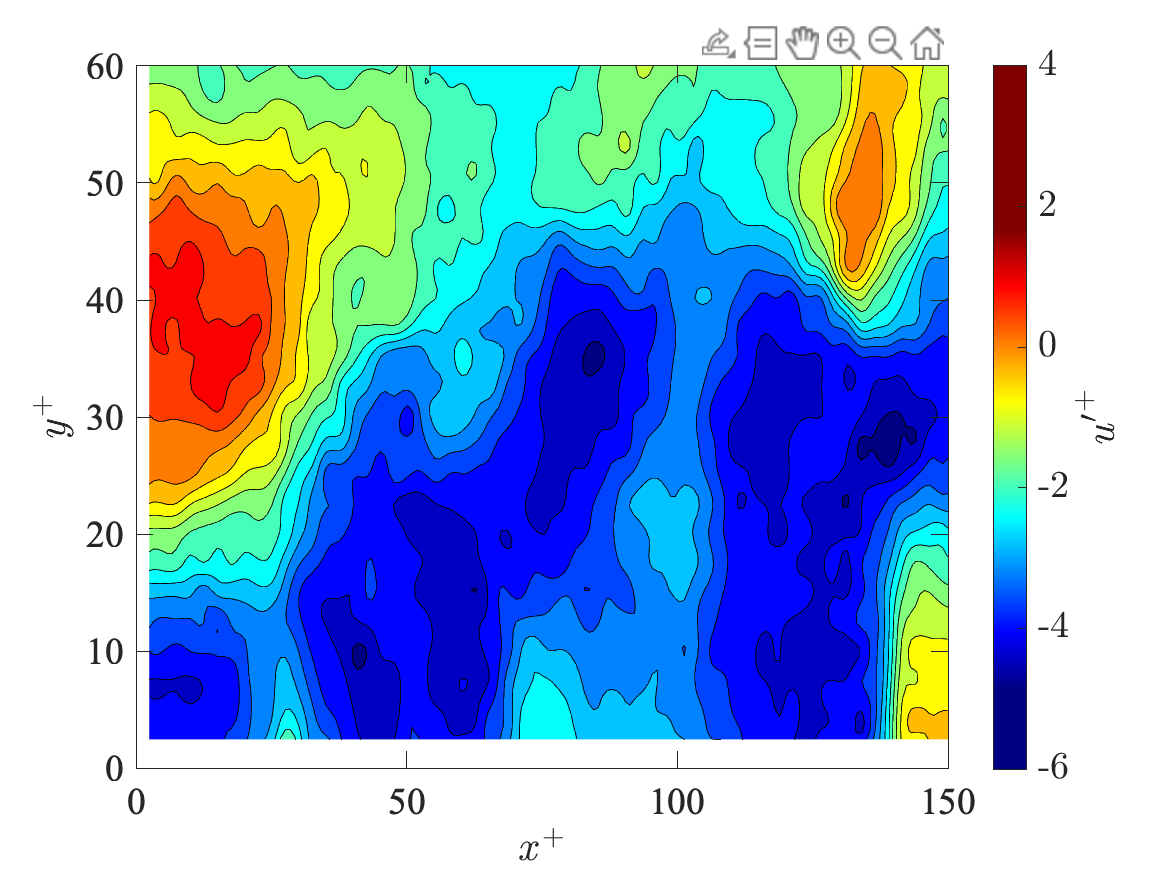
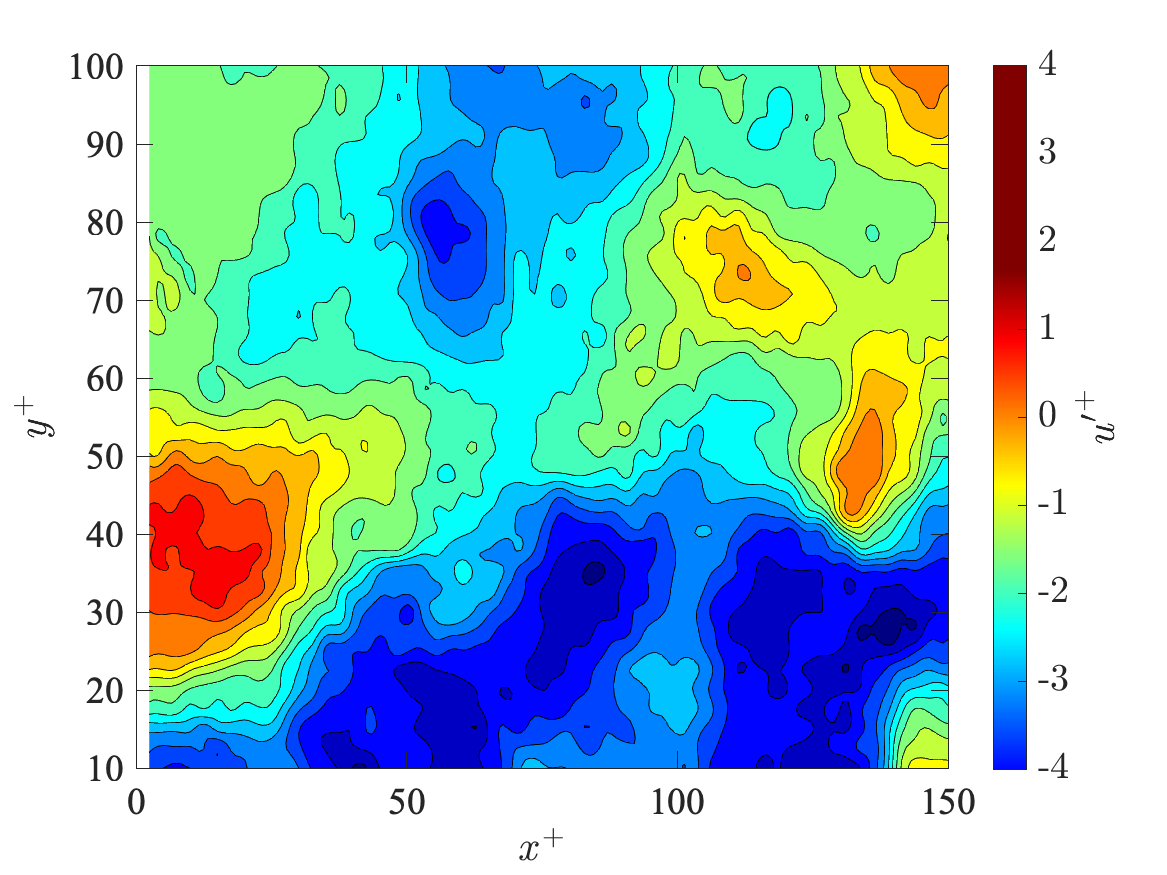
pathとグラフの変更

diff --git a/itoi/PIV_assignment/solution_algo.m b/itoi/PIV_assignment/solution_algo.m
@@ -45,20 +45,20 @@ x          = x/1000;                                               % xy data [mm
 % reading part_velocity_data_average
 for k =0:numfiles-1
 	if k<10                                                        % changing file name to read data
-    %  file_name = sprintf('velocity_32px.6vayg6cd.00000%d.dat',k);
-	 file_name = sprintf('previous_water_Flow_images.6wb7297o.00000%d.dat',k);
+     file_name = sprintf('velocity_32px.6vayg6cd.00000%d.dat',k);
+	%  file_name = sprintf('previous_water_Flow_images.6wb7297o.00000%d.dat',k);
 	elseif k<100
-	%  file_name = sprintf('velocity_32px.6vayg6cd.0000%d.dat',k);
-	 file_name = sprintf('previous_water_Flow_images.6wb7297o.0000%d.dat',k);
+	 file_name = sprintf('velocity_32px.6vayg6cd.0000%d.dat',k);
+	%  file_name = sprintf('previous_water_Flow_images.6wb7297o.0000%d.dat',k);
 	elseif k<1000
-	%  file_name = sprintf('velocity_32px.6vayg6cd.000%d.dat',k);
-	 file_name = sprintf('previous_water_Flow_images.6wb7297o.000%d.dat',k);
+	 file_name = sprintf('velocity_32px.6vayg6cd.000%d.dat',k);
+	%  file_name = sprintf('previous_water_Flow_images.6wb7297o.000%d.dat',k);
 	elseif k<10000 
-	%  file_name = sprintf('velocity_32px.6vayg6cd.00%d.dat',k);
-	 file_name = sprintf('previous_water_Flow_images.6wb7297o.00%d.dat',k);
+	 file_name = sprintf('velocity_32px.6vayg6cd.00%d.dat',k);
+	%  file_name = sprintf('previous_water_Flow_images.6wb7297o.00%d.dat',k);
     end
-    % myfilename = sprintf('/Volumes/HDCZ-UT/itoi_PIV/water/water_test.6uvaasgh/80ppm_experiment.6vaxq7zy/velocity/%s',file_name);
-    myfilename = sprintf('/Volumes/HDCZ-UT/itoi_PIV/water/water_test.6uvaasgh/80ppm_experiment.6vaxq7zy/0217fixed_velocity/%s',file_name);
+    myfilename = sprintf('/Volumes/HDCZ-UT/itoi_PIV/water/water_test.6uvaasgh/80ppm_experiment.6vaxq7zy/velocity/%s',file_name);
+    % myfilename = sprintf('/Volumes/HDCZ-UT/itoi_PIV/water/water_test.6uvaasgh/80ppm_experiment.6vaxq7zy/0217fixed_velocity/%s',file_name);
     mydata     = importdata(myfilename);
     u(:,:,1)   = rot90(reshape(mydata.data(:,1),[m n]));            % u
     u(:,:,2)   = -rot90(reshape(mydata.data(:,2),[m n]));           % v
@@ -130,20 +130,20 @@ saveas(gcf,'Um-y','png');
 % reading part_velocity_data_fluctuation
 for k =0:numfiles-1
 	if k<10                                                         % changing file name to read data
-	%  file_name = sprintf('velocity_32px.6vayg6cd.00000%d.dat',k);
-	 file_name = sprintf('previous_water_Flow_images.6wb7297o.00000%d.dat',k);
+	 file_name = sprintf('velocity_32px.6vayg6cd.00000%d.dat',k);
+	%  file_name = sprintf('previous_water_Flow_images.6wb7297o.00000%d.dat',k);
 	elseif k<100
-	%  file_name = sprintf('velocity_32px.6vayg6cd.0000%d.dat',k);
-	 file_name = sprintf('previous_water_Flow_images.6wb7297o.0000%d.dat',k);
+	 file_name = sprintf('velocity_32px.6vayg6cd.0000%d.dat',k);
+	%  file_name = sprintf('previous_water_Flow_images.6wb7297o.0000%d.dat',k);
 	elseif k<1000
-	%  file_name = sprintf('velocity_32px.6vayg6cd.000%d.dat',k);
-	 file_name = sprintf('previous_water_Flow_images.6wb7297o.000%d.dat',k);
+	 file_name = sprintf('velocity_32px.6vayg6cd.000%d.dat',k);
+	%  file_name = sprintf('previous_water_Flow_images.6wb7297o.000%d.dat',k);
 	elseif k<10000 
-	%  file_name = sprintf('velocity_32px.6vayg6cd.00%d.dat',k);
-	 file_name = sprintf('previous_water_Flow_images.6wb7297o.00%d.dat',k);
+	 file_name = sprintf('velocity_32px.6vayg6cd.00%d.dat',k);
+	%  file_name = sprintf('previous_water_Flow_images.6wb7297o.00%d.dat',k);
     end
-    % myfilename = sprintf('/Volumes/HDCZ-UT/itoi_PIV/water/water_test.6uvaasgh/80ppm_experiment.6vaxq7zy/velocity/%s',file_name);
-    myfilename = sprintf('/Volumes/HDCZ-UT/itoi_PIV/water/water_test.6uvaasgh/80ppm_experiment.6vaxq7zy/0217fixed_velocity/%s',file_name);
+    myfilename = sprintf('/Volumes/HDCZ-UT/itoi_PIV/water/water_test.6uvaasgh/80ppm_experiment.6vaxq7zy/velocity/%s',file_name);
+    % myfilename = sprintf('/Volumes/HDCZ-UT/itoi_PIV/water/water_test.6uvaasgh/80ppm_experiment.6vaxq7zy/0217fixed_velocity/%s',file_name);
     mydata     = importdata(myfilename);
     u(:,:,1)   = rot90(reshape(mydata.data(:,1),[m n]));            % u
     u(:,:,2)   = -rot90(reshape(mydata.data(:,2),[m n]));           % v
@@ -170,15 +170,15 @@ for k =0:numfiles-1
 
 % uの変動を分布図に
 
-    % if k < 15
-    if k == 6 || k == 8|| k == 14
+    % if k == 6 || k == 8|| k == 14
+    if k == 6
         [cc_solution_dash,hc_solution_dash]=contourf(xq*ut/vis,yq*ut/vis,U_dash/ut,8);                   % making isoline
         hc_solution_dash.TextStep = 0.4;                                                  % interval isoline
         hc_solution_dash.ShowText = 'off';                                                % isoline text off
         colormap('jet');                                                    % color type of 'jet'
         box on;                                                             % making flame of figure
         xlim([0 150]);                                                       % range of x
-        ylim([0 60]);                                                     % range of y
+        ylim([10 100]);                                                     % range of y
         set( gca, 'FontName','Times','FontSize',18);                        % font and its size of axes 
         ax = gca;
         ax.TickLength = [0.02 0.1];                                         % scale size to inside from flame
@@ -186,14 +186,14 @@ for k =0:numfiles-1
         ylabel('${\it y^+}$','FontSize',20,'Interpreter','latex');           % ylabel, its size, and type
 
         c = load('session_C','c').c;                                                       % making color bar
-        % % c.Limits = [-0.4 0.4];                                                 % range of colorbar
-        % c.Limits = [-6 4];                                                 % range of colorbar
-        % c.FontSize = 18;                                                    % font size of scale of color bar
-        % c.TickLabelInterpreter = 'latex';                                   % font type of scale of color bar
-        % c.Label.Interpreter = 'latex';                                      % font type of label of color bar
+        % c.Limits = [-0.4 0.4];                                                 % range of colorbar
+        c.Limits = [-4 4];                                                 % range of colorbar
+        c.FontSize = 18;                                                    % font size of scale of color bar
+        c.TickLabelInterpreter = 'latex';                                   % font type of scale of color bar
+        c.Label.Interpreter = 'latex';                                      % font type of label of color bar
         % % c.Label.String = '$${\it u^\prime}/{\it U_b}$$';                % label of color bar
-        % c.Label.String = '$${\it u^\prime}^+$$';                             % label of color bar
-        % c.Label.FontSize = 20;                                              % font size of label of color bar
+        c.Label.String = '$${\it u^\prime}^+$$';                             % label of color bar
+        c.Label.FontSize = 20;                                              % font size of label of color bar
         fig_name = sprintf('U_dash_solution%d',k);
         saveas(gcf,fig_name ,'png'); 
         

diff --git a/itoi/PIV_assignment/water_algo.m b/itoi/PIV_assignment/water_algo.m
@@ -131,21 +131,21 @@ saveas(gcf,'Um-y','png');
 % reading part_velocity_data_fluctuation
 for k =0:numfiles-1
 	if k<10                                                         % changing file name to read data
-	%  file_name = sprintf('velocity_32px.6vas9dlb.00000%d.dat',k);
+	 file_name = sprintf('velocity_32px.6vas9dlb.00000%d.dat',k);
 	%  file_name = sprintf('0217fixed_velocity.6wbrf3a3.00000%d.dat',k);
-	 file_name = sprintf('0217fixed_velocity.6wbrf3a3.00000%d.dat',k);
+	%  file_name = sprintf('0217fixed_velocity.6wbrf3a3.00000%d.dat',k);
     elseif k<100
-	%  file_name = sprintf('velocity_32px.6vas9dlb.0000%d.dat',k);
+	 file_name = sprintf('velocity_32px.6vas9dlb.0000%d.dat',k);
 	%  file_name = sprintf('0217fixed_velocity.6wbrf3a3.0000%d.dat',k);
-	 file_name = sprintf('0217fixed_velocity.6wbrf3a3.0000%d.dat',k);
+	%  file_name = sprintf('0217fixed_velocity.6wbrf3a3.0000%d.dat',k);
     elseif k<1000
-	%  file_name = sprintf('velocity_32px.6vas9dlb.000%d.dat',k);
+	 file_name = sprintf('velocity_32px.6vas9dlb.000%d.dat',k);
 	%  file_name = sprintf('0217fixed_velocity.6wbrf3a3.000%d.dat',k);
-	 file_name = sprintf('0217fixed_velocity.6wbrf3a3.000%d.dat',k);
+	%  file_name = sprintf('0217fixed_velocity.6wbrf3a3.000%d.dat',k);
     elseif k<10000 
-	%  file_name = sprintf('velocity_32px.6vas9dlb.00%d.dat',k);
+	 file_name = sprintf('velocity_32px.6vas9dlb.00%d.dat',k);
 	%  file_name = sprintf('0217fixed_velocity.6wbrf3a3.00%d.dat',k);
-	 file_name = sprintf('0217fixed_velocity.6wbrf3a3.00%d.dat',k);
+	%  file_name = sprintf('0217fixed_velocity.6wbrf3a3.00%d.dat',k);
     end
     myfilename = sprintf('/Volumes/HDCZ-UT/itoi_PIV/water/water_test.6uvaasgh/water_experiment.6vari2x3/velocity/%s',file_name);
     % myfilename = sprintf('/Volumes/HDCZ-UT/itoi_PIV/water/water_test.6uvaasgh/500micro_500.6v9pqou6/0217fixed_velocity/%s',file_name);
@@ -186,7 +186,7 @@ for k =0:numfiles-1
         colormap('jet');                                                    % color type of 'jet'
         box on;                                                             % making flame of figure
         xlim([0 150]);                                                       % range of x
-        ylim([0 60]);                                                     % range of y
+        ylim([10 100]);                                                     % range of y
         set( gca, 'FontName','Times','FontSize',18);                        % font and its size of axes 
         ax = gca;
         ax.TickLength = [0.02 0.1];                                         % scale size to inside from flame
@@ -194,7 +194,7 @@ for k =0:numfiles-1
         ylabel('${\it y^+}$','FontSize',20,'Interpreter','latex');           % ylabel, its size, and type
         c = colorbar;                                                       % making color bar
         % c.Limits = [-0.4 0.4];                                                 % range of colorbar
-        c.Limits = [-6 4];                                                 % range of colorbar
+        c.Limits = [-4 4];                                                 % range of colorbar
         c.FontSize = 18;                                                    % font size of scale of color bar
         c.TickLabelInterpreter = 'latex';                                   % font type of scale of color bar
         c.Label.Interpreter = 'latex';                                      % font type of label of color bar

diff --git a/itoi/PIV_assignment/comparision_log_data/solution.m b/itoi/PIV_assignment/comparision_log_data/solution.m
@@ -45,9 +45,9 @@ ucross2_solution = log(ycross1) * A_solution + B_solution;
 semilogx(ycross1,ucross1,'-k');
 hold on
 % 水の測定結果をプロット
-semilogx(ycross_water,ucross_water,'-ob');
+% semilogx(ycross_water,ucross_water,'-ob');
 % solutionの測定結果をプロット
-semilogx(ycross,ucross_solution,'-or');
+% semilogx(ycross,ucross_solution,'-or');
 % 水の乱流層をプロット
 semilogx(ycross1,ucross2,'-.k');
 % 粘弾性流体の乱流層をプロット
@@ -56,7 +56,8 @@ xlim([0 1000]);
 ylim([0 25]);
 xlabel('${\it y^+}$','FontSize',20,'Interpreter','latex')
 ylabel('$\overline{\it u^{+}}$','FontSize',20,'Interpreter','latex')
-legend({'\slU^{+}= y^{+}','water','80ppm','\slU^{+}=2.5lny^{+}+5.5','\slU^{+}=11.7lny^{+}-17'},'Location','southeast')
+% legend({'\slU^{+}= y^{+}','water','80ppm','\slU^{+}=2.5lny^{+}+5.5','\slU^{+}=11.7lny^{+}-17'},'Location','southeast')
+legend({'\slU^{+}= y^{+}','\slU^{+}=2.5lny^{+}+5.5','\slU^{+}=11.7lny^{+}-17'},'Location','southeast')
 hold off
 
 % ✔todo: ，摩擦レイノルズ数で出してみる→対数速分布

diff --git a/itoi/PIV_assignment/comparision_In_elastozone.m b/itoi/PIV_assignment/comparision_In_elastozone.m
@@ -14,7 +14,7 @@ u_RMS_DNS = DNSdata(:,4).^(1/2);
 v_RMS_DNS = DNSdata(:,5).^(1/2);
 
 % DNS_lowRe_file_name = sprintf('/Users/issa/Desktop/DNS_Re.csv');
-% DNS_lowRe_data = csvread(DNS_lowRe_file_name, 1, 0);
+% DNS_lowRe_data = csvread(DNS_lowRe_file_name);
 % y_cross_lowRe_DNS = DNS_lowRe_data(:,2);
 % u_mean_lowRe_DNS = DNS_lowRe_data(:,3);
 % u_RMS_lowRe_DNS = DNS_lowRe_data(:,4).^(1/2);
